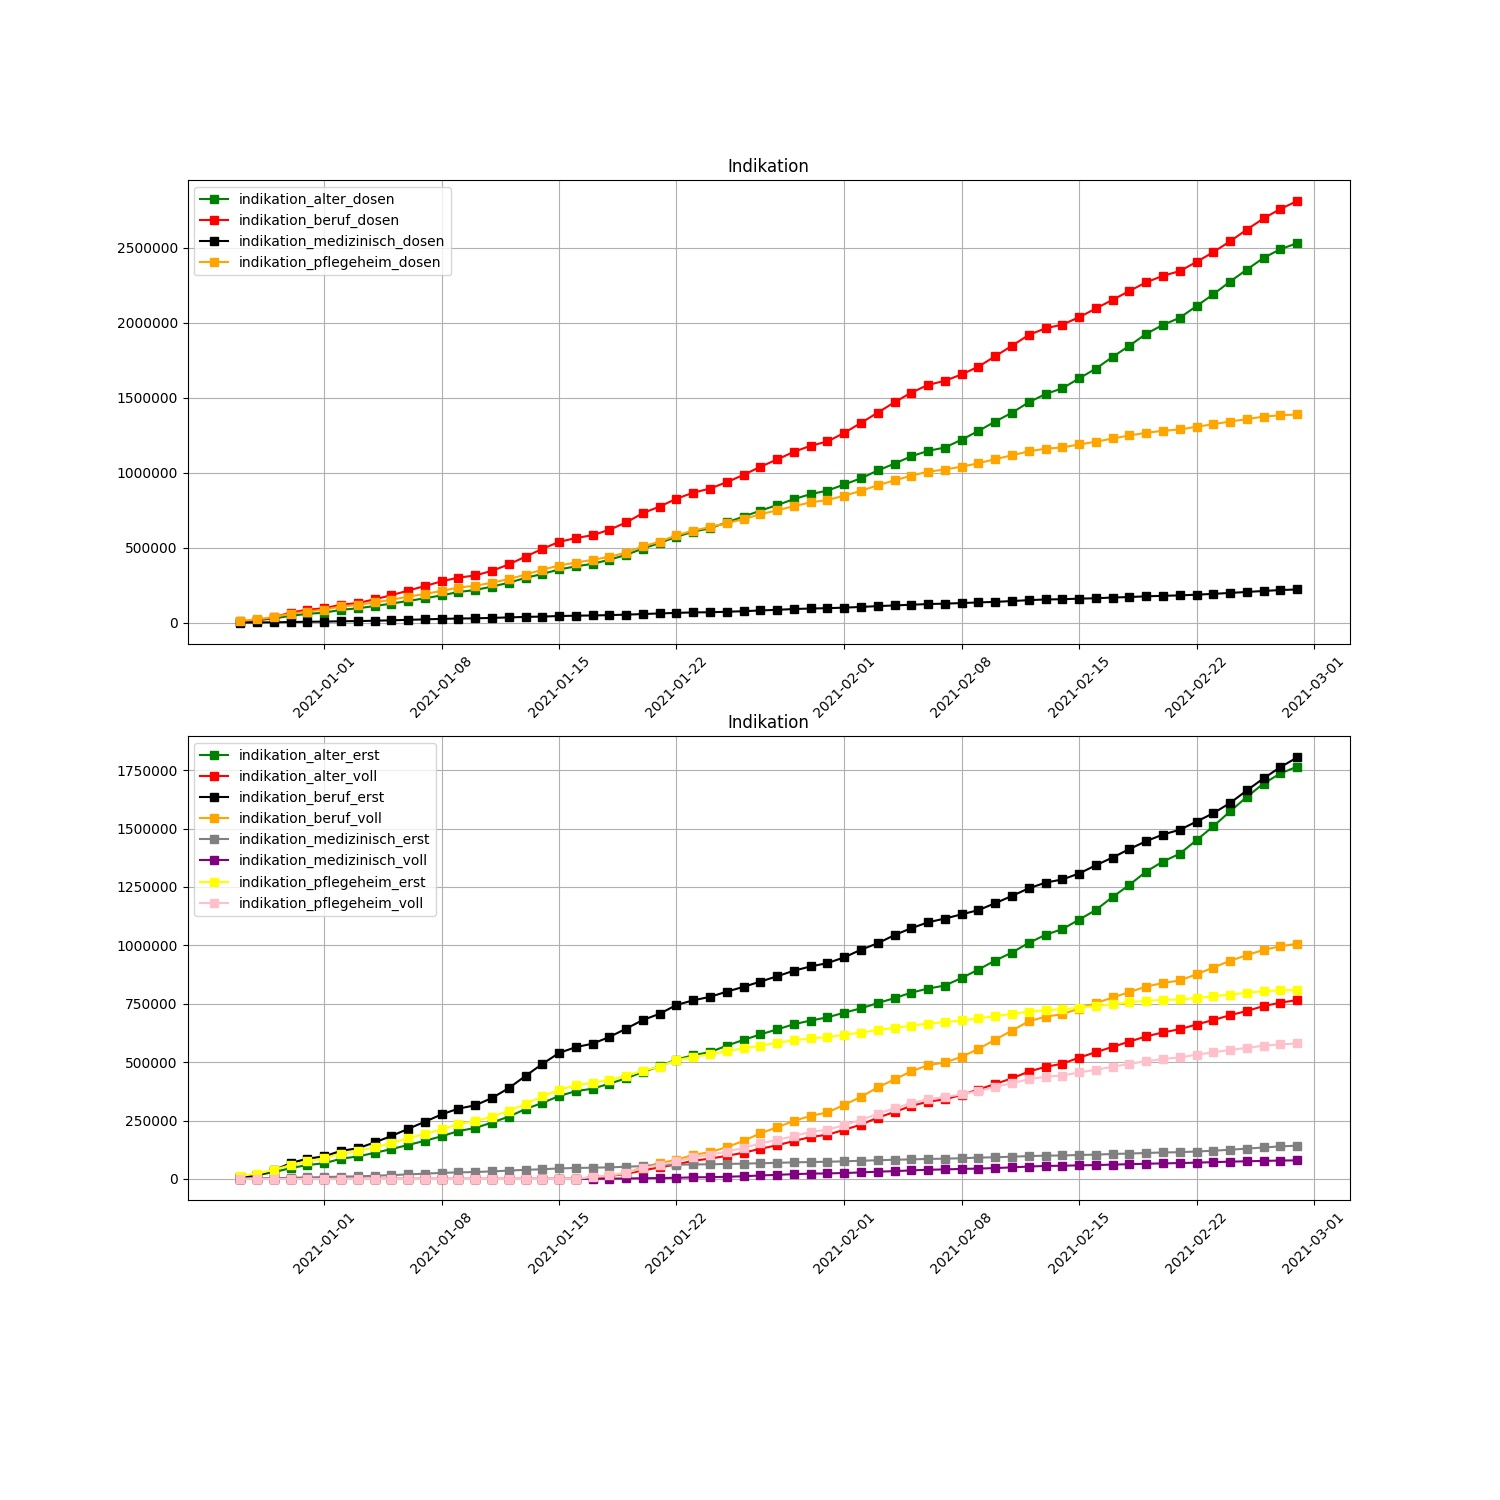
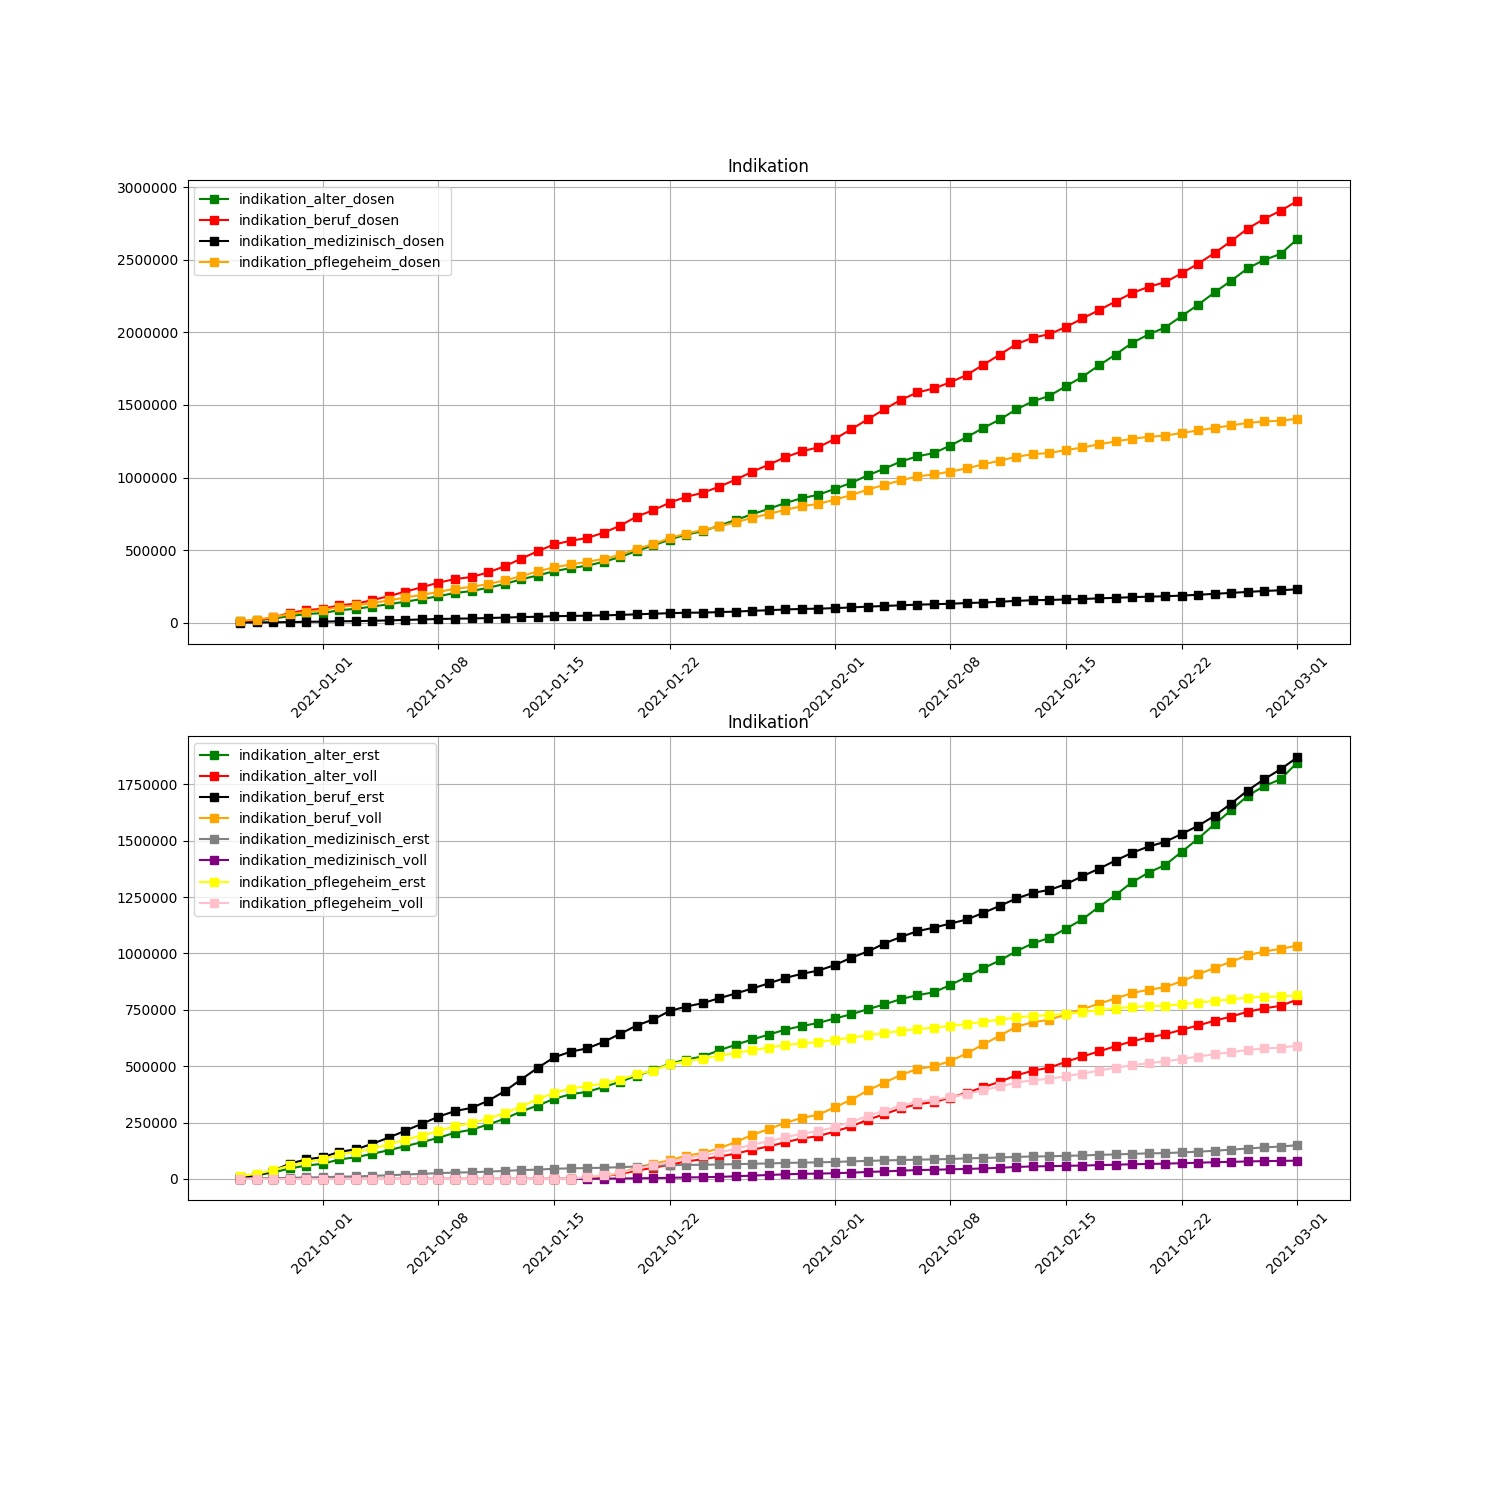
Crontab commit

diff --git a/Readme.md b/Readme.md
@@ -1,19 +1,19 @@
-# Corona vaccine Germany - Stand 2021-02-28
+# Corona vaccine Germany - Stand 2021-03-01
 ## Dashboard by [Simon Hamacher](https://www.shamacher.eu)
 ## Impfstoffe Übersicht
 **Impfstoffhersteller** | **verimpfte Dosen**
 -------- | :--------:
-Biontech | 5543772
-Moderna | 175981
-Astrazeneca | 454609
+Biontech | 5696093
+Moderna | 183845
+Astrazeneca | 514426
 
 
 ## Quoten
-**Total Verimpfte Dosen:** | 6174362
+**Total Verimpfte Dosen:** | 6394364
 -------- | :--------:
-**Erst-Impfquote** | 4.90 %
-**Voll-Impfquote** | 2.52 %
-**Imfungen Durchschnitt** | 96474.41 pro Tag
+**Erst-Impfquote** | 5.09 %
+**Voll-Impfquote** | 2.60 %
+**Imfungen Durchschnitt** | 98374.83 pro Tag
 ## Graphen
 <img src="Impfungen-Corona-01.jpg" alt="Corona-1" title="optionaler Titel" />
 <img src="Impfungen-Corona-02.jpg" alt="Corona-2" title="optionaler Titel" />
